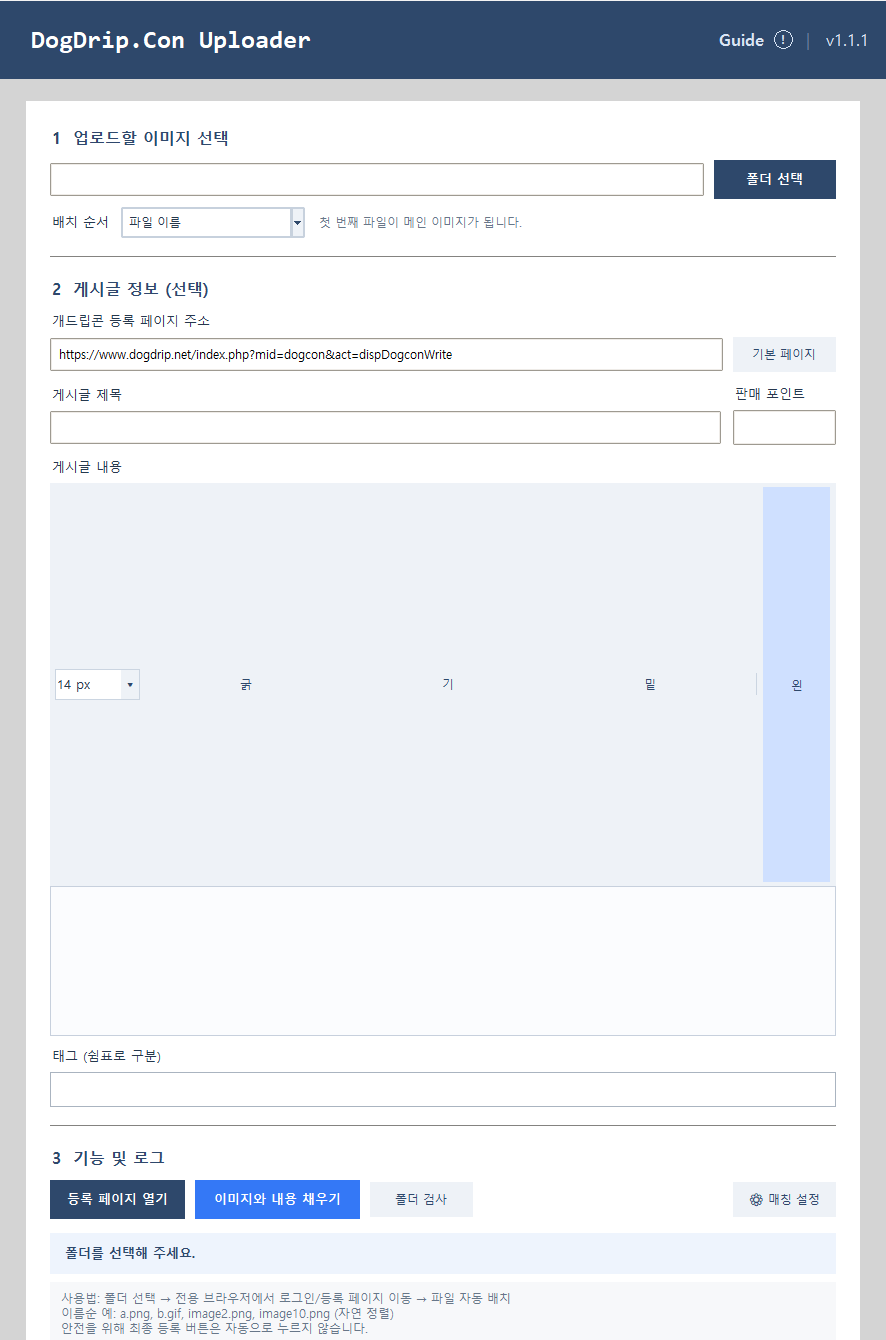
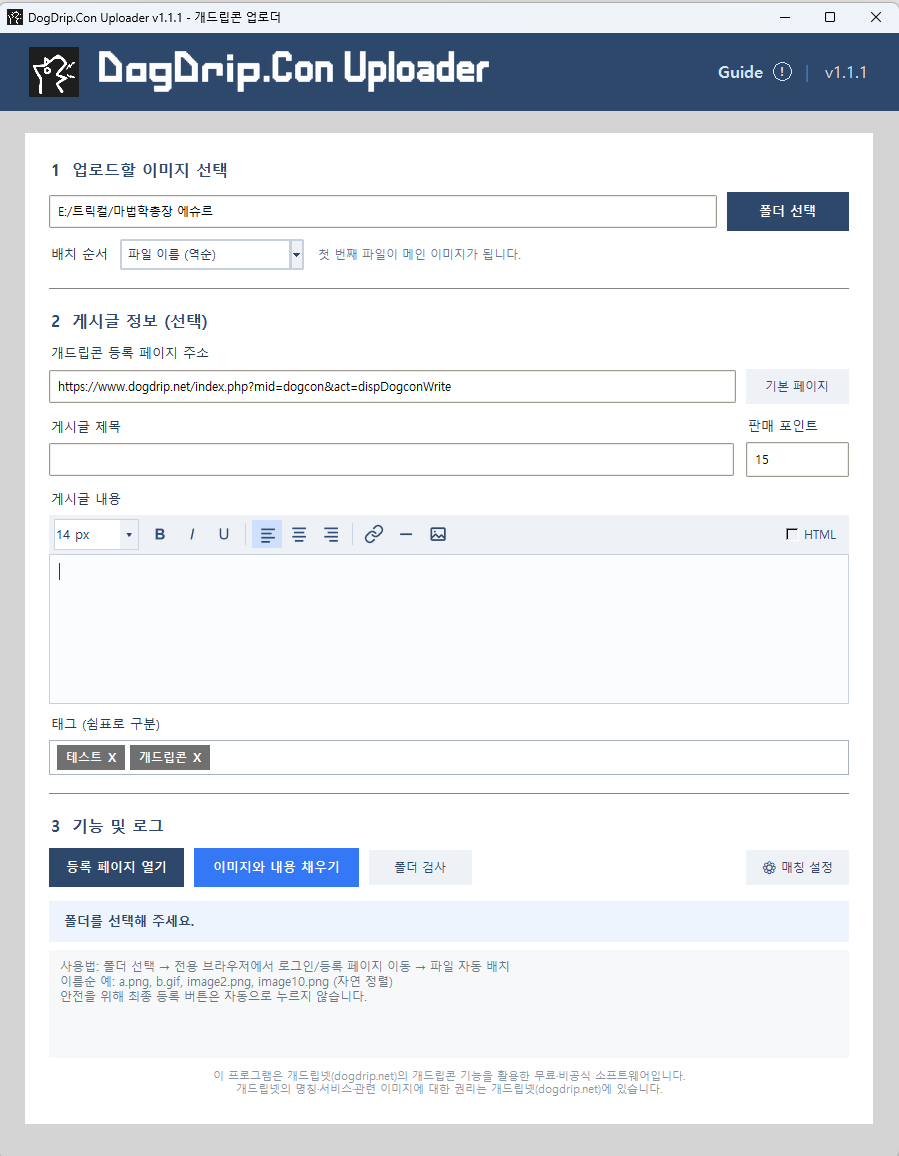
Use accurate app screenshot in online guide

diff --git a/docs/assets/post-preview.css b/docs/assets/post-preview.css
@@ -82,6 +82,16 @@
 .preview-tags b { margin-left: 2px; font-size: 12px; }
 .preview-caption { margin: 18px -30px -30px; padding: 13px 30px; border-top: 1px solid #d6e0ec; color: #59718c; font-size: 13px; }
 
+/* 대표 화면은 실제 프로그램 전체 구성이 보이도록 자르지 않습니다. */
+.app-shot { display: flex; justify-content: center; }
+.app-shot img {
+  width: auto;
+  max-width: 100%;
+  max-height: 620px;
+  object-fit: contain;
+  object-position: center;
+}
+
 @media (max-width: 680px) {
   .post-preview { padding: 18px; }
   .preview-control,
